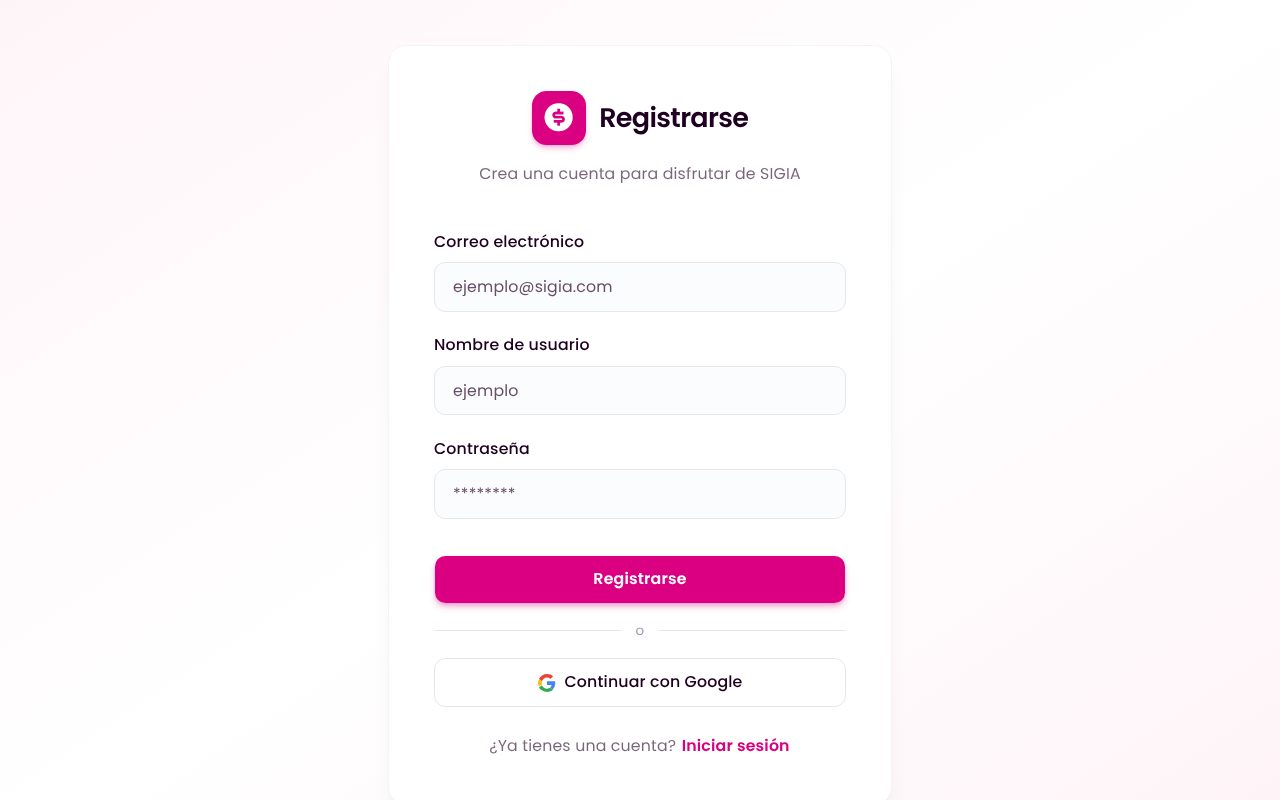
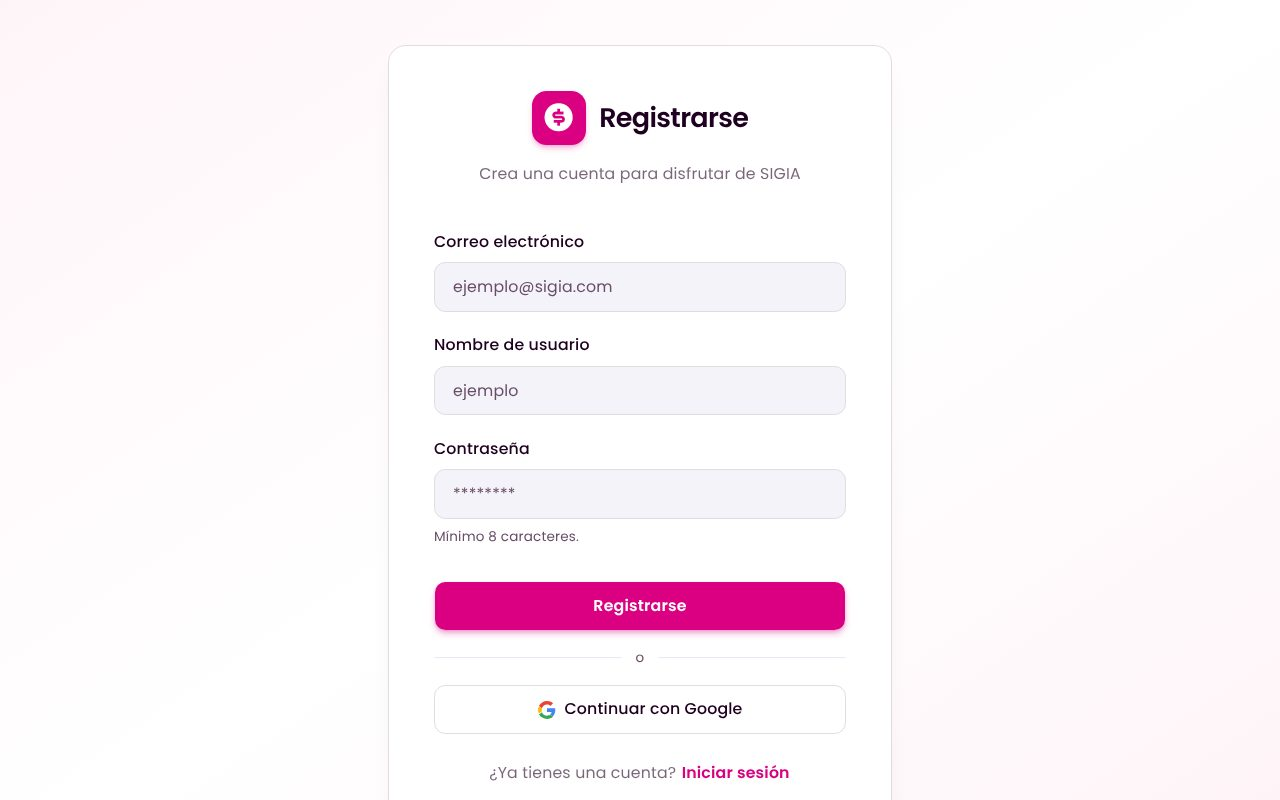
docs: reflect HU-01, HU-02, HU-22 and HU-23 in all documents
README status (23/23 user stories, 149 tests, lint:theme), error
handling section in the architecture guide, access rules in business
rules, password and redirect behavior in the user manual, refreshed
screenshots.

Changed region(s): [[0.3125, 0.6562, 0.6875, 0.8125], [0.375, 0.8438, 0.625, 1.0]]

diff --git a/docs/arquitectura.md b/docs/arquitectura.md
@@ -21,7 +21,7 @@ Navegador
 | Features | `src/features/<módulo>/` | Componentes, hooks, esquemas (Zod) y tipos de cada módulo | Dominio, acceso a datos, `shared` |
 | Páginas | `src/pages/`, `features/*/pages/` | Componer features en pantallas enrutables | Features |
 | App | `src/app/` | Router, guardas de ruta y providers globales | Páginas |
-| Compartido | `src/shared/` | Componentes UI (shadcn), skeletons, utilidades de fecha y formato | — |
+| Compartido | `src/shared/` | Componentes UI (shadcn), skeletons, catálogo de errores, utilidades de fecha y formato | Dominio (solo `UserError`) |
 
 Regla principal: **los cálculos de dinero se hacen en `src/domain`**, donde tienen pruebas unitarias. Los componentes solo muestran los resultados.
 
@@ -59,13 +59,45 @@ Regla principal: **los cálculos de dinero se hacen en `src/domain`**, donde tie
 | Filtros en memoria y en la URL | Con el volumen esperado son rápidos, evitan índices compuestos y sobreviven a recargar |
 | Borrado lógico de conceptos (`archived`) | HU-06: no se pierde el historial y no quedan movimientos huérfanos |
 | Recharts cargado de forma diferida | No penaliza la carga inicial |
-| Tokens de color en `styles/index.css` | Tema claro/oscuro único (HU-23) |
+| Tokens de color en `styles/index.css` | Tema claro/oscuro único. Una prueba (`styles/theme-tokens.test.ts`) impide colores o fuentes fijas (HU-23) |
+| Catálogo único de errores (`shared/errors/errorCatalog.ts`) | Ningún error crudo llega a la pantalla (HU-22). Ver abajo |
+
+## Manejo de errores (HU-22)
+
+```text
+servicio / regla de negocio ──throw UserError("mensaje en español")──┐
+Firebase / red ──────────────throw FirebaseError(code) ──────────────┤
+                                                                      ▼
+                       getErrorMessage(error)  (shared/errors/errorCatalog.ts)
+                         · UserError  → su mensaje, tal cual
+                         · otro error → classifyError → texto del catálogo (§9)
+                                                                      ▼
+                                       snackbar / estado de error en pantalla
+```
+
+| Tipo | Códigos | Mensaje |
+|---|---|---|
+| `offline` | `unavailable`, `deadline-exceeded`, `auth/network-request-failed`, navegador sin red | No hay conexión. Revisa tu internet e inténtalo de nuevo. |
+| `session` | `unauthenticated`, `auth/user-token-expired`, `auth/requires-recent-login`… | Tu sesión expiró. Inicia sesión de nuevo. |
+| `permission` | `permission-denied` | No tienes permiso para ver o modificar esta información. |
+| `notFound` | `not-found` | No encontramos lo que buscas. Puede que haya sido eliminado. |
+| `validation` | `invalid-argument`, `out-of-range`, `already-exists` | Revisa los datos ingresados e inténtalo de nuevo. |
+| `server` | Todo lo demás | Algo salió mal de nuestro lado. Inténtalo en unos minutos. |
+
+Reglas:
+- Los servicios lanzan `UserError` **solo** con mensajes escritos para el usuario.
+- La interfaz nunca muestra `error.message` directamente: siempre pasa por `getErrorMessage`.
+- El detalle técnico va a `console.error`, para quien depura.
+- Los errores de validación de formularios (Zod) se muestran junto a cada campo.
 
 ## Pruebas
 
 - `src/domain/**/*.test.ts`: fórmulas, periodos, filtros, ahorro, metas.
 - `src/features/home-checklist/services/checklist.service.test.ts`: reglas de la checklist.
 - `src/shared/utils/*.test.ts`: fechas y formatos.
+- `src/shared/errors/errorCatalog.test.ts`, `features/auth/**.test.ts`: errores, contraseña.
+- `src/app/router/redirect.test.ts`: retorno a la ruta pedida.
+- `src/styles/theme-tokens.test.ts`: regla de colores y fuentes (HU-23).
 
 Se ejecutan con `npm test`. La cobertura de `src/domain` tiene un umbral de 90 % (`vitest.config.ts`).
 
@@ -73,5 +105,4 @@ Se ejecutan con `npm test`. La cobertura de `src/domain` tiene un umbral de 90 %
 
 1. **Security Rules versionadas** (`firestore.rules` + `firebase.json`) con pruebas en el emulador. Hoy algunas validaciones, como no borrar el Bolsillo o que la cuenta sea del usuario, solo se hacen en el cliente.
 2. **CI** que ejecute lint, tipos, pruebas y build en cada PR.
-3. **Manejador de errores único** (HU-22): hoy cada módulo traduce sus errores por separado.
-4. **Bundle principal** de ~416 KB gzip: conviene dividirlo por ruta (`lazy`) para cumplir la meta de LCP < 2,5 s.
+3. **Bundle principal** de ~416 KB gzip: conviene dividirlo por ruta (`lazy`) para cumplir la meta de LCP < 2,5 s.

diff --git a/README.md b/README.md
@@ -2,20 +2,20 @@
 
 Aplicación web de finanzas personales. Cada usuario registra sus gastos e ingresos, los clasifica por frecuencia y grupos, administra cuentas y revisa una checklist periódica. Lo que no marca en la checklist cuenta como **ahorrado**.
 
-> **Estado:** 🚧 Sprint 6 (cierre) · 21 de 23 historias de usuario integradas en `develop` · Última actualización: 26/11/2026
+> **Estado:** 🚧 Sprint 6 (cierre) · 23 de 23 historias de usuario implementadas · Última actualización: 27/11/2026
 
 ## Funcionalidades
 
 | Módulo | Qué permite | HU |
 |---|---|---|
-| Autenticación | Registro, inicio de sesión (correo o Google), cierre de sesión y rutas privadas. Al registrarse se crea la cuenta **Bolsillo** | HU-01 a 03 |
+| Autenticación | Registro (contraseña de 8 o más caracteres), inicio de sesión (correo o Google), cierre de sesión y rutas privadas. Tras el login se vuelve a la página pedida. Al registrarse se crea la cuenta **Bolsillo** | HU-01 a 03 |
 | Gastos e ingresos | Crear, reutilizar (último valor), editar y archivar conceptos y movimientos. Frecuencia obligatoria | HU-04 a 07 |
 | Etiquetas y grupos | Grupos personalizados con íconos verdes, neutros o rojos | HU-08, 09 |
 | Consulta | Cards, filtros combinables (nombre, fecha, etiqueta, valor), detalle con indicadores, historial y gráficas | HU-10 a 13 |
 | Cuentas | Crear cuentas, ver la evolución del saldo y compararlo con ayer, la semana, el mes y el año anteriores | HU-14, 15 |
 | Checklist y ahorro | Checklist diaria, semanal, mensual y anual. Totales de ahorro por periodo y metas con progreso | HU-16 a 19 |
 | Dashboard | Gastos frente a ingresos por mes y en total, con filtro de fechas | HU-20 |
-| Experiencia | Esqueletos de carga en todas las páginas | HU-21 |
+| Experiencia | Esqueletos de carga en todas las páginas, catálogo único de errores en español y colores solo desde el tema | HU-21 a 23 |
 
 Pendientes y limitaciones conocidas: ver [Estado y pendientes](#estado-y-pendientes).
 
@@ -56,6 +56,7 @@ El archivo `.env` está en `.gitignore` y nunca se sube al repositorio.
 | `npm run preview` | Sirve el build localmente |
 | `npm run typecheck` | Solo chequeo de tipos |
 | `npm run lint` | Oxlint |
+| `npm run lint:theme` | Falla si hay colores o fuentes fijas fuera del tema (HU-23) |
 | `npm test` | Pruebas unitarias (Vitest) |
 | `npm run test:coverage` | Pruebas con cobertura de `src/domain` (umbral 90 %) |
 
@@ -76,7 +77,7 @@ src/
 │   └── team/           # página de presentación del equipo
 ├── firebase/       # configuración y hooks genéricos de Firestore
 ├── pages/          # páginas enrutables
-├── shared/         # componentes UI, skeletons, utilidades (fechas, formato)
+├── shared/         # componentes UI, skeletons, catálogo de errores, utilidades
 └── styles/         # tema (tokens de color) y estilos globales
 ```
 
@@ -112,7 +113,8 @@ Más detalle en [docs/arquitectura.md](docs/arquitectura.md).
 
 ## Calidad
 
-- 117 pruebas unitarias. La cobertura de `src/domain` está en ~100 % de líneas (umbral configurado: 90 %).
+- 149 pruebas unitarias. La cobertura de `src/domain` está en ~100 % de líneas (umbral configurado: 90 %).
+- Regla automática de tokens del tema (`npm run lint:theme`).
 - TypeScript estricto. El build falla si hay errores de tipos.
 - **No hay pipeline de CI todavía:** las pruebas y el lint se ejecutan a mano.
 
@@ -132,10 +134,6 @@ Más detalle en [docs/arquitectura.md](docs/arquitectura.md).
 | **Reglas de seguridad de Firestore** (`firestore.rules`) no versionadas ni probadas | Alto: el aislamiento entre usuarios depende de lo publicado en la consola de Firebase |
 | CI (GitHub Actions) y despliegue | El plan los exige (E1 y E11) |
 | Pruebas E2E (Playwright) | El plan pide 8 flujos críticos |
-| HU-22: catálogo único de errores | Los mensajes de §9 solo existen en el dashboard |
-| HU-23: tokens de tema en todas las páginas | Quedan colores escritos a mano en varios componentes |
-| HU-01: contraseña mínima de 8 caracteres | Hoy se acepta el mínimo de Firebase (6) |
-| HU-02: volver a la ruta solicitada tras el login | Hoy siempre redirige a `/dashboard` |
 
 ## Equipo
 

diff --git a/docs/reglas-de-negocio.md b/docs/reglas-de-negocio.md
@@ -14,7 +14,14 @@ Las reglas marcadas con **(S)** son **supuestos**: el documento organizacional (
 | Los conceptos **archivados** no cuentan en ningún total (HU-06) | `items`, `dashboard`, `accounts` |
 | Si un movimiento no tiene `type`, se toma del concepto | `domain/finance.ts` (`resolveEntryType`) |
 
-## 2. Periodos
+## 2. Acceso (HU-01, HU-02)
+
+| Regla | Detalle | Código |
+|---|---|---|
+| Contraseña | 8 o más caracteres. Se valida antes de llamar a Firebase, que solo exige 6 | `features/auth/constants/auth.constants.ts` |
+| Ruta de retorno | Al pedir una página privada sin sesión, se recuerda la ruta (con filtros y ancla) y se vuelve a ella después del login. Solo se aceptan rutas internas; nunca se vuelve a `/login`, `/signup` ni `/` | `app/router/redirect.ts` |
+
+## 3. Periodos
 
 | Periodo | Rango |
 |---|---|
@@ -25,7 +32,7 @@ Las reglas marcadas con **(S)** son **supuestos**: el documento organizacional (
 
 Código: `domain/period.ts` (`checklistPeriodRange`).
 
-## 3. Gastos e ingresos (HU-04 a HU-13)
+## 4. Gastos e ingresos (HU-04 a HU-13)
 
 | Regla | Detalle | Código |
 |---|---|---|
@@ -40,7 +47,7 @@ Código: `domain/period.ts` (`checklistPeriodRange`).
 
 Más detalle en [epica-3-consulta.md](epica-3-consulta.md).
 
-## 4. Cuentas (HU-14, HU-15)
+## 5. Cuentas (HU-14, HU-15)
 
 | Regla | Detalle | Código |
 |---|---|---|
@@ -52,7 +59,7 @@ Más detalle en [epica-3-consulta.md](epica-3-consulta.md).
 | Variación (§5.1) | (saldo actual − saldo anterior) ÷ \|saldo anterior\| × 100. `null` si el saldo anterior es 0. Se divide entre el valor absoluto para que el signo indique si subió o bajó **(S)** | `calculateVariation` |
 | Gráfica de evolución | Necesita al menos **2 movimientos**. Si hay menos, se muestra un mensaje guía | `MIN_MOVEMENTS_FOR_EVOLUTION` |
 
-## 5. Checklist (HU-16, HU-17)
+## 6. Checklist (HU-16, HU-17)
 
 | Regla | Detalle |
 |---|---|
@@ -66,7 +73,7 @@ Más detalle en [epica-3-consulta.md](epica-3-consulta.md).
 
 Código: `features/home-checklist/services/checklist.service.ts`, `domain/checklist.ts`.
 
-## 6. Ahorro (HU-18)
+## 7. Ahorro (HU-18)
 
 | Regla | Detalle | Código |
 |---|---|---|
@@ -75,7 +82,7 @@ Código: `features/home-checklist/services/checklist.service.ts`, `domain/checkl
 | Desglose | Por concepto: monto acumulado y número de veces evitado | `calculateSavings` |
 | Ahorro disponible | Total ahorrado − total asignado a metas (nunca negativo). Si un mismo concepto aparece en periodos que se solapan, se cuenta una sola vez | `domain/availableSavings.ts` |
 
-## 7. Metas (HU-19)
+## 8. Metas (HU-19)
 
 | Regla | Detalle | Código |
 |---|---|---|
@@ -88,7 +95,7 @@ Código: `features/home-checklist/services/checklist.service.ts`, `domain/checkl
 
 > El ahorro asignado a metas es un **valor de control**: no mueve dinero entre cuentas ni cambia saldos.
 
-## 8. Dashboard (HU-20)
+## 9. Dashboard (HU-20)
 
 | Regla | Detalle | Código |
 |---|---|---|

diff --git a/docs/manual-usuario.md b/docs/manual-usuario.md
@@ -18,8 +18,8 @@ SIGIA te ayuda a registrar tus gastos e ingresos, ver cuánto pesan en tus finan
 
 ![Página de inicio](img/inicio.jpg)
 
-- **Crear cuenta:** correo, nombre de usuario y contraseña. Al registrarte se crea tu cuenta **Bolsillo**.
-- **Ingresar:** con correo y contraseña, o con **Continuar con Google**.
+- **Crear cuenta:** correo, nombre de usuario y contraseña de **al menos 8 caracteres**. Al registrarte se crea tu cuenta **Bolsillo**.
+- **Ingresar:** con correo y contraseña, o con **Continuar con Google**. Si abriste un enlace a una página privada sin haber iniciado sesión, después de ingresar vuelves a esa página.
 - **¿Quiénes somos?** muestra al equipo que creó SIGIA.
 
 | Iniciar sesión | Registrarse |
@@ -135,6 +135,9 @@ Cada meta muestra una barra de progreso y su estado:
 |---|---|
 | "No hay conexión. Revisa tu internet e inténtalo de nuevo." | Verifica tu conexión y reintenta |
 | "Tu sesión expiró. Inicia sesión de nuevo." | Vuelve a ingresar |
+| "No tienes permiso para ver o modificar esta información." | Verifica que hayas ingresado con tu propia cuenta |
+| "Algo salió mal de nuestro lado. Inténtalo en unos minutos." | Espera un momento y reintenta |
+| "La contraseña debe tener al menos 8 caracteres" | Usa una contraseña más larga |
 | "No puedes guardar la checklist hasta que termine el periodo." | Vuelve cuando el periodo haya terminado |
 | "No tienes suficiente ahorro disponible." | Asigna un monto menor o espera a ahorrar más |
 | "No puedes asignar ahorros a una meta vencida." | Crea una meta nueva con otra fecha |
